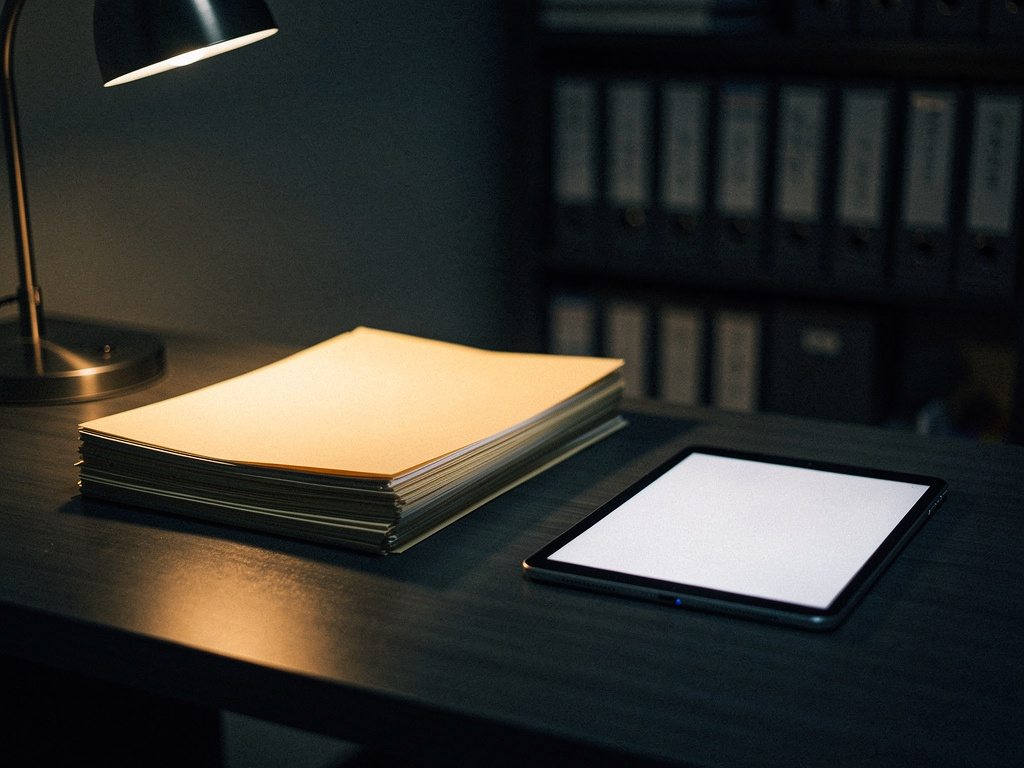
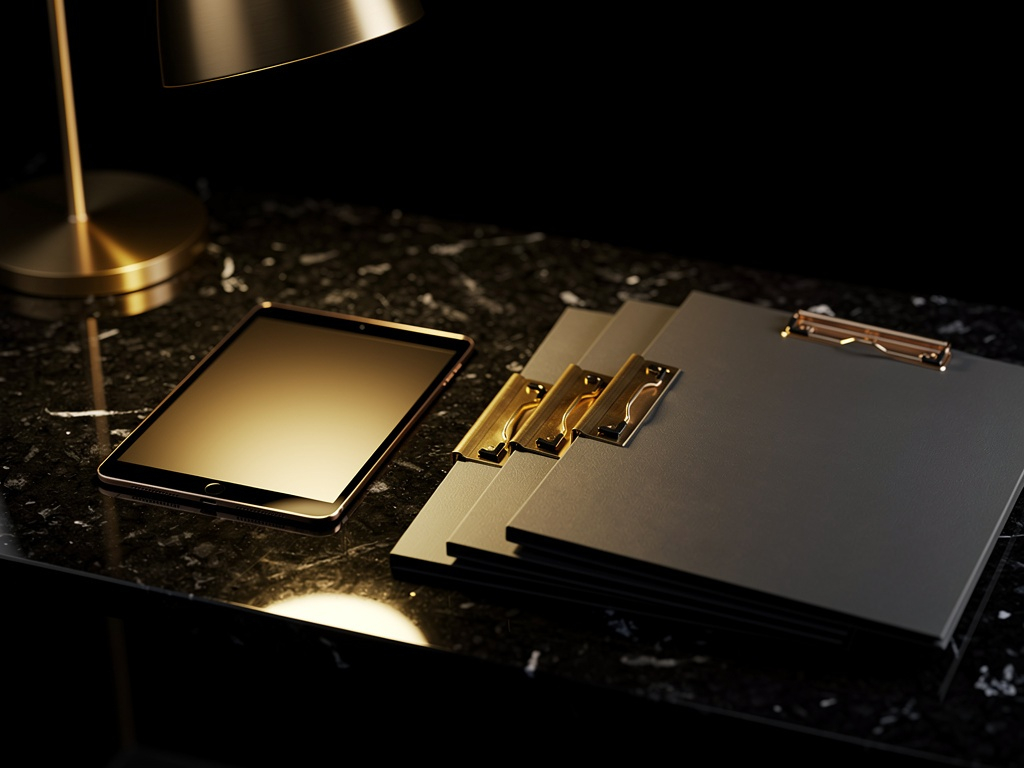
feat: MedReach/karteo画像を黒×ゴールド統一、TOPにGROUP NETWORKセクション(日本地図)追加

diff --git a/src/pages/top.ts b/src/pages/top.ts
@@ -10,6 +10,7 @@ export const topPage = (c: Context) => {
     <li class="l-nav__item"><a class="l-nav__link" href="#front-about">ABOUT</a></li>
     <li class="l-nav__item"><a class="l-nav__link" href="#front-services">SERVICES</a></li>
     <li class="l-nav__item"><a class="l-nav__link" href="#front-results">RESULTS</a></li>
+    <li class="l-nav__item"><a class="l-nav__link" href="#front-network">NETWORK</a></li>
     <li class="l-nav__item"><a class="l-nav__link" href="#front-recruit">RECRUIT</a></li>
   </ul>
 </nav>
@@ -241,6 +242,119 @@ export const topPage = (c: Context) => {
             <span class="p-result-label">取引先企業</span>
           </div>
         </div>
+      </div>
+    </div>
+  </section>
+
+  <!-- ========================================
+       SECTION: GROUP NETWORK (Japan Map)
+       ======================================== -->
+  <section id="front-network" class="p-snap-section">
+    <div class="p-slide-section p-front-network">
+      <div class="p-slide-section__bg" style="opacity:.05;"></div>
+      <div class="p-slide-section__body p-slide-section__body--network">
+        <p class="c-heading-sub c-heading-sub--large">全国の医療機関・企業を支援。</p>
+        <h2 class="c-heading c-heading--1">
+          <span class="c-text-letters js-text-letters">GROUP NETWORK</span>
+        </h2>
+        <div class="p-network-container">
+          <!-- Japan Map SVG -->
+          <div class="p-network-map">
+            <svg viewBox="0 0 560 700" class="p-japan-map" aria-label="日本地図 グループ展開エリア">
+              <!-- Simplified Japan outline paths -->
+              <!-- Hokkaido -->
+              <path class="p-map-region" d="M380,80 Q420,60 450,70 Q480,80 490,110 Q500,140 480,160 Q460,170 440,160 Q420,150 400,140 Q380,130 370,110 Q360,90 380,80Z" data-region="hokkaido"/>
+              <!-- Tohoku -->
+              <path class="p-map-region" d="M390,175 Q410,170 420,180 Q435,190 440,210 Q445,230 440,250 Q435,270 420,280 Q405,285 395,275 Q385,265 380,245 Q375,225 378,205 Q380,185 390,175Z" data-region="tohoku"/>
+              <!-- Kanto -->
+              <path class="p-map-region p-map-region--active" d="M370,285 Q395,280 415,290 Q430,300 435,315 Q438,330 425,340 Q410,348 390,345 Q370,342 360,330 Q352,318 355,305 Q358,292 370,285Z" data-region="kanto"/>
+              <!-- Chubu -->
+              <path class="p-map-region" d="M330,270 Q355,265 370,280 Q380,290 375,305 Q370,320 355,330 Q340,338 320,335 Q300,330 295,315 Q290,300 300,285 Q310,272 330,270Z" data-region="chubu"/>
+              <!-- Kansai -->
+              <path class="p-map-region p-map-region--active" d="M295,330 Q315,325 330,335 Q345,345 345,360 Q345,375 330,382 Q315,388 300,385 Q285,380 278,368 Q272,355 278,342 Q284,332 295,330Z" data-region="kansai"/>
+              <!-- Chugoku -->
+              <path class="p-map-region" d="M235,345 Q260,340 278,350 Q290,358 288,372 Q285,385 270,390 Q255,394 240,390 Q225,385 220,372 Q215,360 222,350 Q228,342 235,345Z" data-region="chugoku"/>
+              <!-- Shikoku -->
+              <path class="p-map-region" d="M260,395 Q280,392 295,400 Q305,408 302,418 Q298,428 283,430 Q268,432 255,425 Q245,418 248,408 Q252,398 260,395Z" data-region="shikoku"/>
+              <!-- Kyushu -->
+              <path class="p-map-region p-map-region--active" d="M200,390 Q220,385 235,395 Q248,405 248,420 Q248,438 238,450 Q228,462 212,465 Q196,465 185,455 Q175,442 178,425 Q180,408 188,398 Q194,392 200,390Z" data-region="kyushu"/>
+              <!-- Okinawa -->
+              <path class="p-map-region" d="M160,560 Q170,555 178,560 Q185,565 183,575 Q180,585 172,588 Q164,590 158,585 Q152,578 155,570 Q157,563 160,560Z" data-region="okinawa"/>
+              
+              <!-- Gold dots for active locations -->
+              <circle class="p-map-dot p-map-dot--pulse" cx="400" cy="310" r="6"/><!-- Kanto/Chiba HQ -->
+              <circle class="p-map-dot" cx="310" cy="355" r="5"/><!-- Kansai -->
+              <circle class="p-map-dot" cx="220" cy="430" r="5"/><!-- Kyushu -->
+              <circle class="p-map-dot" cx="345" cy="300" r="4"/><!-- Chubu -->
+              <circle class="p-map-dot" cx="410" cy="220" r="4"/><!-- Tohoku -->
+              
+              <!-- Connection lines -->
+              <line class="p-map-line" x1="400" y1="310" x2="310" y2="355"/>
+              <line class="p-map-line" x1="400" y1="310" x2="345" y2="300"/>
+              <line class="p-map-line" x1="310" y1="355" x2="220" y2="430"/>
+              <line class="p-map-line" x1="400" y1="310" x2="410" y2="220"/>
+            </svg>
+          </div>
+          <!-- Network Stats -->
+          <div class="p-network-stats">
+            <div class="p-network-stat">
+              <span class="p-network-stat__icon"><i class="fas fa-map-marker-alt"></i></span>
+              <div class="p-network-stat__body">
+                <strong class="p-network-stat__num">5</strong><span class="p-network-stat__unit">エリア</span>
+                <span class="p-network-stat__label">展開地域</span>
+              </div>
+            </div>
+            <div class="p-network-stat">
+              <span class="p-network-stat__icon"><i class="fas fa-hospital"></i></span>
+              <div class="p-network-stat__body">
+                <strong class="p-network-stat__num">200+</strong><span class="p-network-stat__unit">件</span>
+                <span class="p-network-stat__label">支援医療機関</span>
+              </div>
+            </div>
+            <div class="p-network-stat">
+              <span class="p-network-stat__icon"><i class="fas fa-handshake"></i></span>
+              <div class="p-network-stat__body">
+                <strong class="p-network-stat__num">100+</strong><span class="p-network-stat__unit">社</span>
+                <span class="p-network-stat__label">パートナー企業</span>
+              </div>
+            </div>
+            <div class="p-network-stat">
+              <span class="p-network-stat__icon"><i class="fas fa-users"></i></span>
+              <div class="p-network-stat__body">
+                <strong class="p-network-stat__num">200+</strong><span class="p-network-stat__unit">名</span>
+                <span class="p-network-stat__label">グループ社員数</span>
+              </div>
+            </div>
+            <div class="p-network-regions">
+              <h3 class="p-network-regions__title">主要展開エリア</h3>
+              <ul class="p-network-regions__list">
+                <li class="p-network-regions__item p-network-regions__item--hq">
+                  <span class="p-network-regions__dot"></span>
+                  <span class="p-network-regions__name">関東（本社：千葉県松戸市）</span>
+                </li>
+                <li class="p-network-regions__item">
+                  <span class="p-network-regions__dot"></span>
+                  <span class="p-network-regions__name">関西（大阪・兵庫）</span>
+                </li>
+                <li class="p-network-regions__item">
+                  <span class="p-network-regions__dot"></span>
+                  <span class="p-network-regions__name">九州（福岡）</span>
+                </li>
+                <li class="p-network-regions__item">
+                  <span class="p-network-regions__dot"></span>
+                  <span class="p-network-regions__name">中部（愛知・静岡）</span>
+                </li>
+                <li class="p-network-regions__item">
+                  <span class="p-network-regions__dot"></span>
+                  <span class="p-network-regions__name">東北（宮城）</span>
+                </li>
+              </ul>
+            </div>
+          </div>
+        </div>
+        <a href="/cases" class="c-btn" style="margin-top:32px;">
+          <span class="c-btn__inner">VIEW ALL CASES <span class="c-arrow"></span></span>
+        </a>
       </div>
     </div>
   </section>

diff --git a/public/static/style.css b/public/static/style.css
@@ -1345,3 +1345,213 @@ h1,h2,h3,h4,h5,h6 { margin: 0; font-size: 100%; }
   .news-detail-body h3 { font-size: 16px; }
   .news-detail-back { margin-top: 40px; }
 }
+
+/* ============================================================
+   GROUP NETWORK Section (Japan Map)
+   ============================================================ */
+.p-front-network {
+  background: radial-gradient(ellipse at 30% 50%, rgba(184,134,11,.06) 0%, transparent 60%);
+}
+
+.p-slide-section__body--network {
+  display: flex;
+  flex-direction: column;
+  align-items: center;
+  justify-content: center;
+  padding: 60px 24px;
+  max-width: 1100px;
+  margin: 0 auto;
+  width: 100%;
+}
+
+.p-network-container {
+  display: grid;
+  grid-template-columns: 1fr 1fr;
+  gap: 48px;
+  align-items: center;
+  width: 100%;
+  margin-top: 40px;
+}
+
+/* Japan Map */
+.p-network-map {
+  display: flex;
+  justify-content: center;
+  align-items: center;
+}
+
+.p-japan-map {
+  width: 100%;
+  max-width: 340px;
+  height: auto;
+}
+
+.p-map-region {
+  fill: rgba(184,134,11,.08);
+  stroke: rgba(184,134,11,.3);
+  stroke-width: 1;
+  transition: fill .3s, stroke .3s;
+}
+
+.p-map-region--active {
+  fill: rgba(184,134,11,.2);
+  stroke: var(--accent-light);
+  stroke-width: 1.5;
+}
+
+.p-map-dot {
+  fill: var(--accent-light);
+  filter: drop-shadow(0 0 6px rgba(212,168,67,.6));
+}
+
+.p-map-dot--pulse {
+  fill: var(--accent-light);
+  animation: dotPulse 2s ease-in-out infinite;
+}
+
+@keyframes dotPulse {
+  0%, 100% { r: 6; opacity: 1; }
+  50% { r: 9; opacity: .7; }
+}
+
+.p-map-line {
+  stroke: rgba(184,134,11,.25);
+  stroke-width: 1;
+  stroke-dasharray: 4 4;
+}
+
+/* Network Stats */
+.p-network-stats {
+  display: flex;
+  flex-direction: column;
+  gap: 20px;
+}
+
+.p-network-stat {
+  display: flex;
+  align-items: center;
+  gap: 16px;
+  padding: 16px 20px;
+  background: rgba(255,255,255,.03);
+  border: 1px solid rgba(184,134,11,.15);
+  border-radius: 12px;
+  transition: border-color .3s, background .3s;
+}
+
+.p-network-stat:hover {
+  border-color: var(--accent);
+  background: rgba(184,134,11,.05);
+}
+
+.p-network-stat__icon {
+  width: 40px;
+  height: 40px;
+  display: flex;
+  align-items: center;
+  justify-content: center;
+  background: var(--gradient-gold);
+  border-radius: 10px;
+  color: #000;
+  font-size: 16px;
+  flex-shrink: 0;
+}
+
+.p-network-stat__body {
+  display: flex;
+  flex-wrap: wrap;
+  align-items: baseline;
+  gap: 4px;
+}
+
+.p-network-stat__num {
+  font-family: var(--font-en);
+  font-size: 28px;
+  font-weight: 700;
+  color: var(--accent-light);
+  line-height: 1;
+}
+
+.p-network-stat__unit {
+  font-size: 13px;
+  color: var(--color-text-sub);
+  margin-left: 2px;
+}
+
+.p-network-stat__label {
+  width: 100%;
+  font-size: 12px;
+  color: var(--color-text-dim);
+  margin-top: 2px;
+}
+
+/* Regions List */
+.p-network-regions {
+  margin-top: 12px;
+  padding: 20px;
+  background: rgba(255,255,255,.02);
+  border: 1px solid rgba(184,134,11,.1);
+  border-radius: 12px;
+}
+
+.p-network-regions__title {
+  font-family: var(--font-en);
+  font-size: 11px;
+  font-weight: 600;
+  letter-spacing: .15em;
+  text-transform: uppercase;
+  color: var(--accent);
+  margin-bottom: 12px;
+}
+
+.p-network-regions__list {
+  list-style: none;
+  padding: 0;
+  margin: 0;
+  display: flex;
+  flex-direction: column;
+  gap: 8px;
+}
+
+.p-network-regions__item {
+  display: flex;
+  align-items: center;
+  gap: 10px;
+  font-size: 13px;
+  color: var(--color-text-sub);
+}
+
+.p-network-regions__item--hq .p-network-regions__name {
+  color: var(--accent-light);
+  font-weight: 500;
+}
+
+.p-network-regions__dot {
+  width: 8px;
+  height: 8px;
+  border-radius: 50%;
+  background: var(--accent);
+  flex-shrink: 0;
+}
+
+.p-network-regions__item--hq .p-network-regions__dot {
+  width: 10px;
+  height: 10px;
+  box-shadow: 0 0 8px rgba(184,134,11,.5);
+}
+
+/* Mobile responsive */
+@media (max-width: 768px) {
+  .p-network-container {
+    grid-template-columns: 1fr;
+    gap: 32px;
+  }
+  .p-japan-map {
+    max-width: 260px;
+  }
+  .p-network-stat__num {
+    font-size: 24px;
+  }
+  .p-slide-section__body--network {
+    padding: 40px 16px;
+  }
+}
